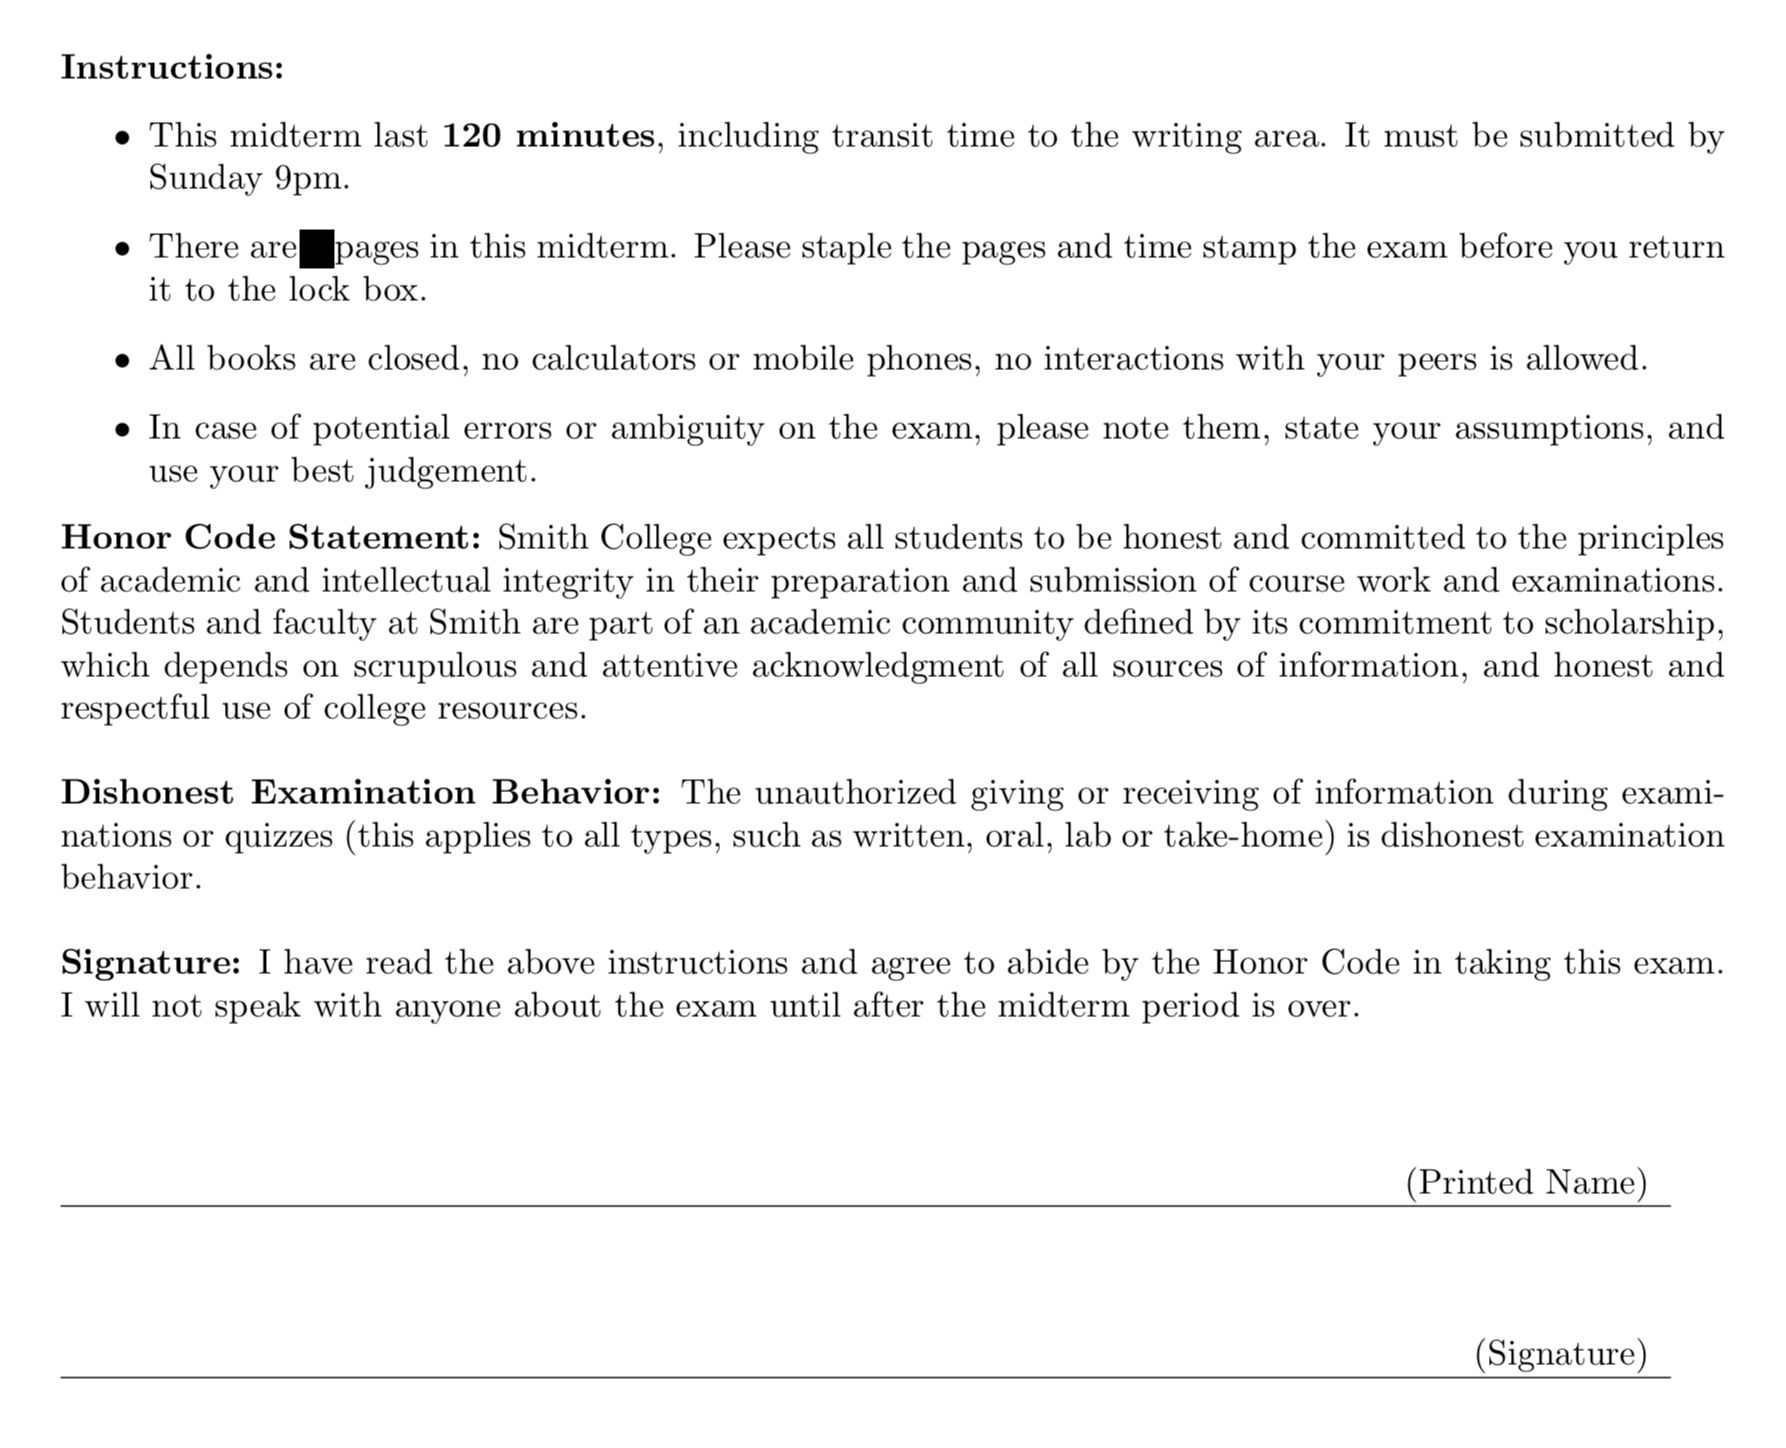
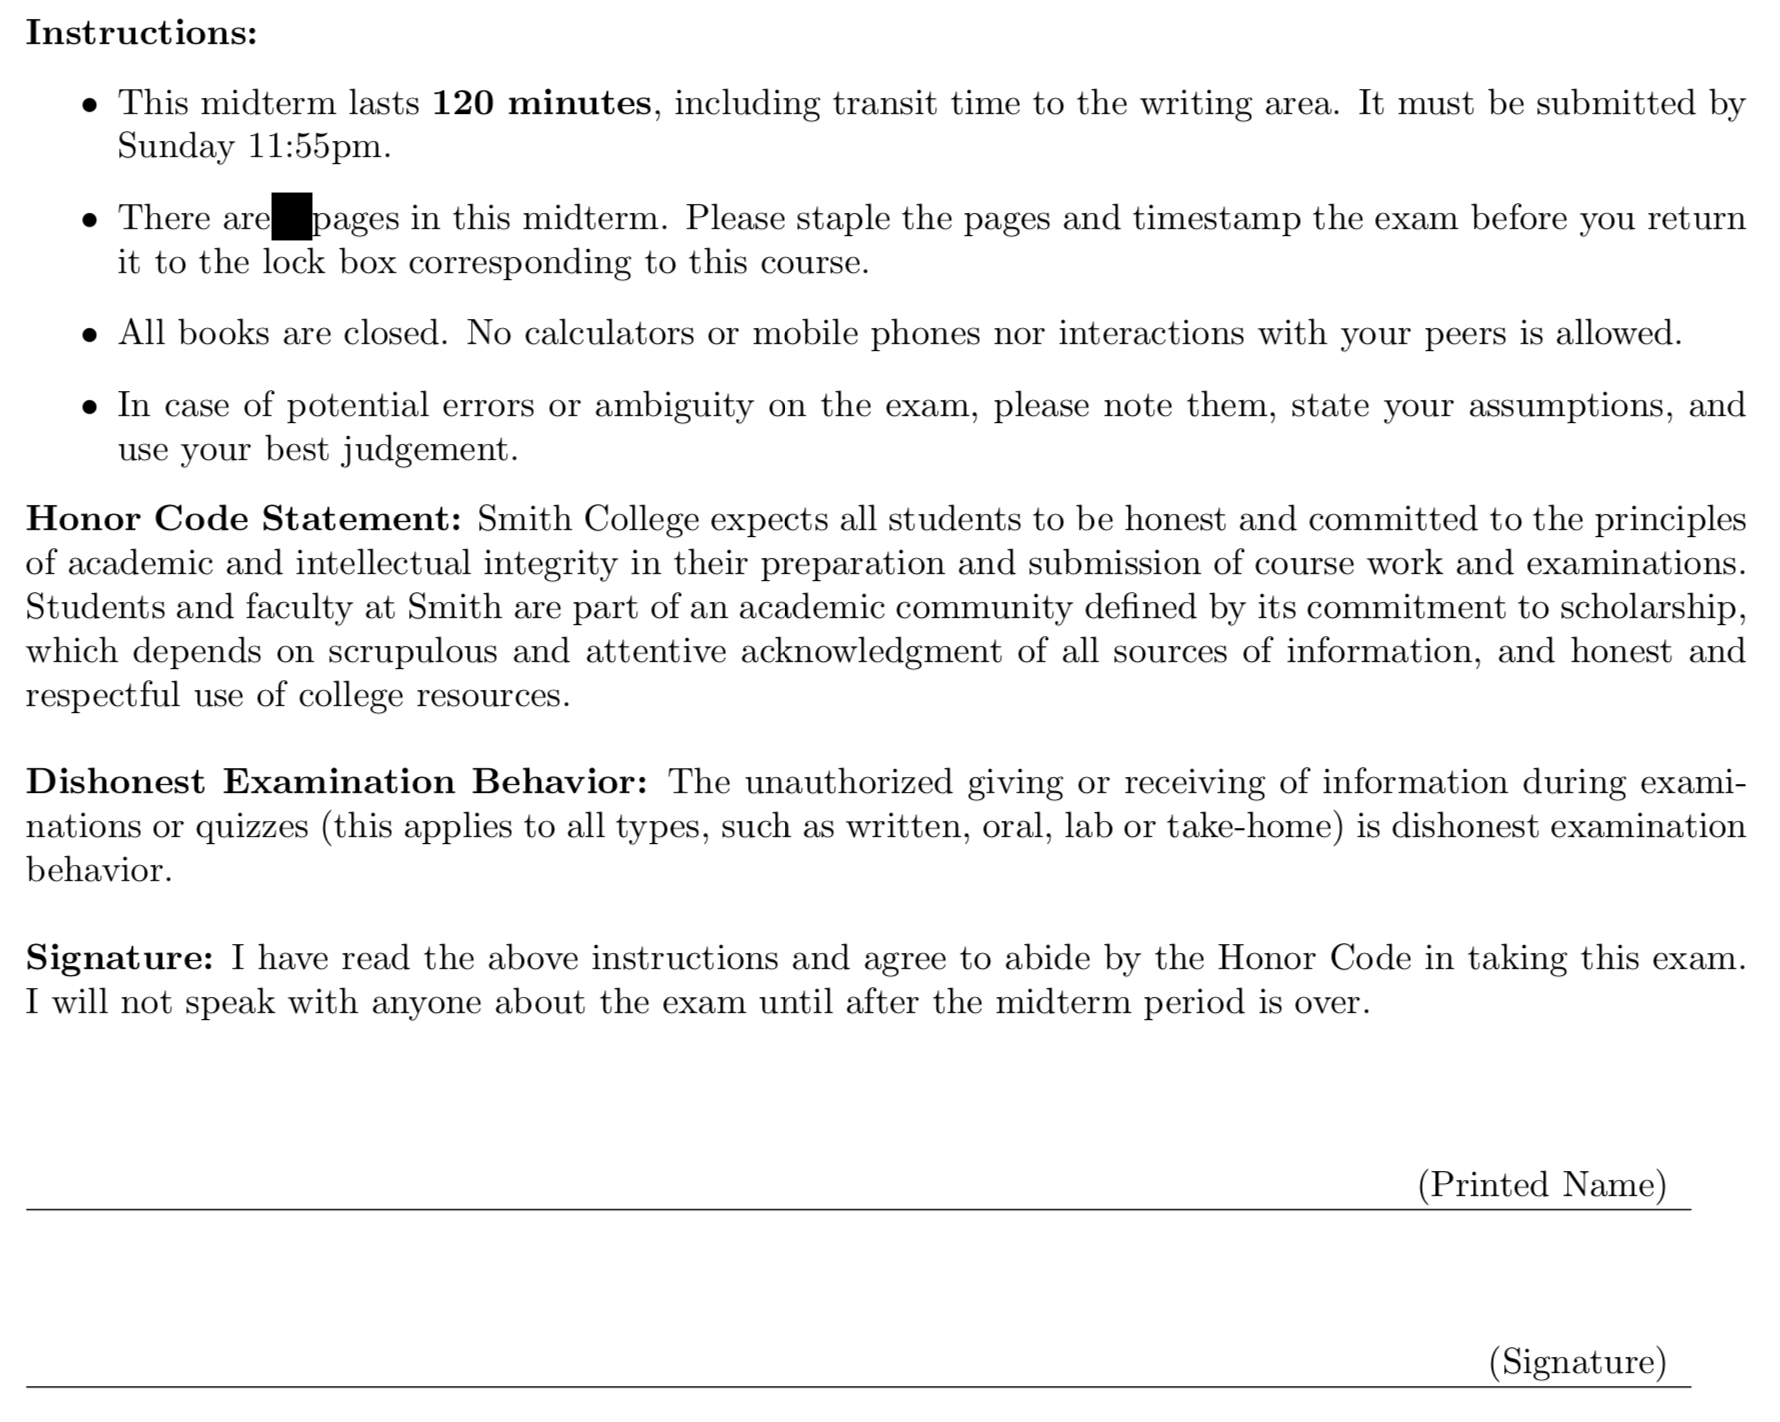
Updated midterm I instructions

diff --git a/docs/index.html b/docs/index.html
@@ -628,8 +628,7 @@ example_data_frame
 <li>Administrative:
 <ul>
 <li>If you have never taken a Self-Scheduled exam, please read the instructions <a href="https://drive.google.com/file/d/10mkwAnJVTbOiz_g-bUDrrUL_S-6j-8ul/view" target="_blank">here</a></li>
-<li>Available Friday 9/29 5pm through Sunday 9/30 9pm.</li>
-<li>You will be given 120 mins to complete it, however I try to time it so that it will take much less than that. In other words, you should have plenty of time to complete it without rushing.</li>
+<li>Available Friday 9/29 5pm through Sunday 9/30 <sub>9pm</sub> 11:55pm. You must submit your midterm by 11:55pm on Sunday. + You will be given 120 mins to complete it (including transit time to writing area), however I try to time it so that it will take much less than that. In other words, you should have plenty of time to complete it without rushing.</li>
 <li>Closed-book, no internet, and individually completed.</li>
 <li>Topics: Lectures 1-7. In other words everything up to and including data visualizations</li>
 <li>Please bring colored pens</li>

diff --git a/docs/syllabus.html b/docs/syllabus.html
@@ -439,9 +439,9 @@ h1{font-weight: 400;}
 <ul>
 <li>There will be three self-scheduled midterms in the library. They are closed-book:
 <ol style="list-style-type: decimal">
-<li>Open on Friday 9/28 at 5pm, ends on Sunday 9/30 evening (Time TBD)</li>
-<li>Open on Friday 11/2 at 5pm, ends on Sunday 11/4 evening (Time TBD)</li>
-<li>Open on Friday 11/30 at 5pm, ends on Sunday 12/2 evening (Time TBD)</li>
+<li>Open on Friday 9/28 at 5pm, ends on Sunday 9/30 11:55pm</li>
+<li>Open on Friday 11/2 at 5pm, ends on Sunday 11/4 11:55pm</li>
+<li>Open on Friday 11/30 at 5pm, ends on Sunday 12/2 11:55pm</li>
 </ol></li>
 </ul>
 </div>
